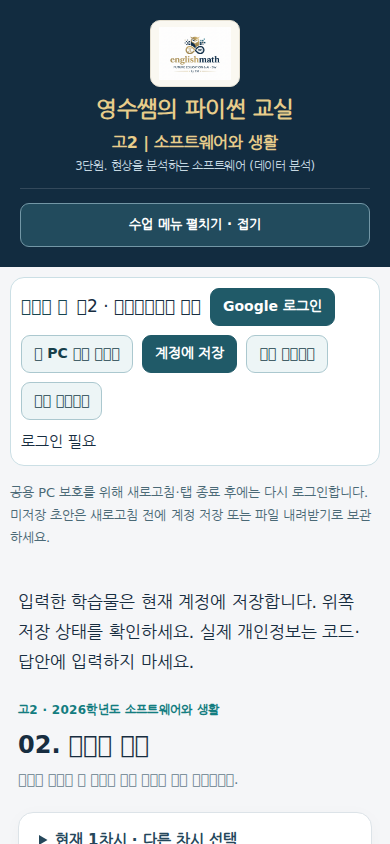
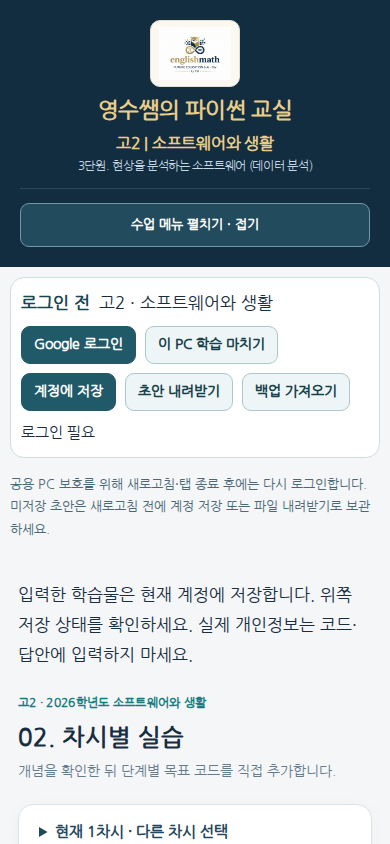
fix(sw): audit tracked teaching sources before build generation
Exclude the generated student-cloud bundle from the teaching-source manifest so a clean checkout can be audited before building. Refresh corrected Korean UI screenshots and 37 security checks. Keep production, full-route, accessibility and loading verification explicitly pending.

diff --git a/sw/write-acceptance.py b/sw/write-acceptance.py
@@ -28,9 +28,10 @@ for r in rows:
  if r['id']=='K01':r.update(status='PASS' if os.environ.get('SW_VALIDATED')=='1' else 'BLOCKED',notes='GitHub 현재 커밋 검증 성공 후 확정. 로컬 빌드·회귀 결과만으로 운영 완료로 판정하지 않음.')
  if r['id']=='G08':r.update(status='PASS' if (root/'matplotlib-korean.png').exists() else 'BLOCKED',evidence='matplotlib-korean.png',notes='실제 Pyodide 이미지의 제목·축 한글이 네모 없이 읽히는 것을 시각 확인. 범례는 V13 복수 Figure 검증.')
  if r['id']=='K04':r.update(status='BLOCKED',notes='전체 코드 독립 실행·링크 검사 및 대표 UI는 통과. 모든 페이지의 계정 저장 연결을 하나씩 실제 조작하는 검증은 아직 완료하지 않음.')
- if r['id']=='K09':r.update(evidence='catalog-runtime.json;browser-runtime.json',notes='각 예제의 실제 소요시간(ms), 런타임, 단계 수 기록. 학교 초기 다운로드 속도를 의미하지 않음.')
+ if r['id']=='K08':r.update(status='BLOCKED',notes='390px 반응형·버튼과 한글은 확인. 키보드 전용·터치·확대 조합의 추가 검증 대기.')
+ if r['id']=='K09':r.update(status='BLOCKED',evidence='catalog-runtime.json;browser-runtime.json',notes='예제별 실행 시간은 기록. 콜드·재방문 페이지 로딩 비교는 추가 실측 대기. 학교 초기 다운로드 속도를 의미하지 않음.')
 with path.open('w',encoding='utf-8-sig',newline='') as f:
- w=csv.DictWriter(f,fieldnames=rows[0].keys());w.writeheader();w.writerows(rows)
+ w=csv.DictWriter(f,fieldnames=rows[0].keys(),lineterminator='\n');w.writeheader();w.writerows(rows)
 summary={'sourceSha':os.environ.get('GITHUB_SHA','local working tree'),'software':118,'field':2,'statuses':{s:sum(r['status']==s for r in rows) for s in sorted(set(r['status'] for r in rows))},'productionDeployed':False,'timestampKST':stamp}
 (root/'acceptance-summary.json').write_text(json.dumps(summary,ensure_ascii=False,indent=2))
 print(json.dumps(summary,ensure_ascii=False))
